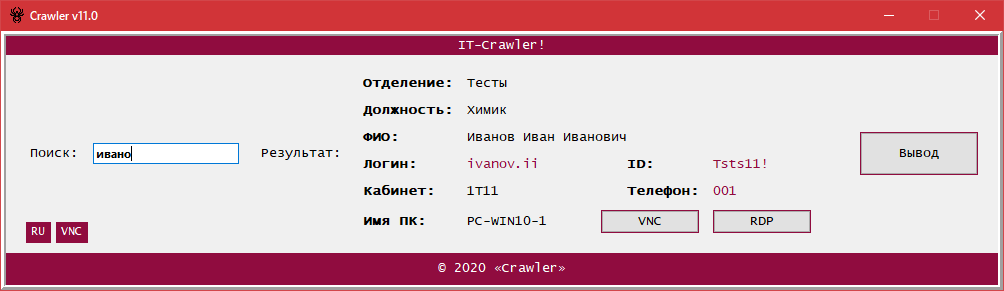
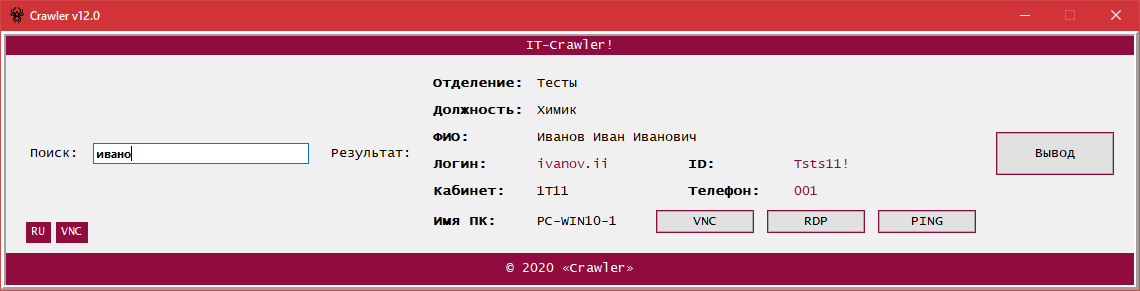
Функция пинга узлов. Кнопка изменения языка ввода.

diff --git a/main.py b/main.py
@@ -3,18 +3,19 @@ import xlrd
 import ctypes
 import fnmatch
 import pyperclip
+import pyautogui
 import subprocess
 from tkinter import *
 from tkinter import ttk
 from functools import partial
 
-VNC_PATH = './VNC'
-BD_PATH = './exampleData.xlsx'
-ICON_PATH = './spider.ico'
+VNC_PATH = 'VNC'
+BD_PATH = 'exampleData.xlsx'
+ICON_PATH = 'spider.ico'
 
 
 def press(event) -> None:
-    """Функция запускает поиск информации по нажатию клавиши."""
+    """Функция запускает поиск информации по нажатию клавиши Enter."""
 
     data_crawler(BD_PATH)
 
@@ -34,10 +35,12 @@ def click(event) -> None:
 def copy_to_clipboard(lbl) -> None:
     """Функция копирует текст из метки в буфер обмена."""
 
-    pyperclip.copy(lbl.cget('text'))
-    lbl_text = lbl.cget('text')
-    lbl['text'] = '<cкопировано>'
-    root.after(1000, label_animation, lbl, lbl_text)
+    output_labels = ('.!label18', '.!label14', '.!label20', '.!label16', '.!label12', '.!label10', '.!label8', '.!label6')
+    if str(lbl) in output_labels:
+        pyperclip.copy(lbl.cget('text'))
+        lbl_text = lbl.cget('text')
+        lbl['text'] = '<cкопировано>'
+        root.after(1000, label_animation, lbl, lbl_text)
 
 
 def label_animation(lbl_id, lbl_value: str) -> None:
@@ -60,7 +63,9 @@ def get_language() -> None:
 def change_language() -> None:
     """Функция меняет язык ввода текста."""
 
-    pass
+    pyautogui.keyDown('alt')
+    pyautogui.press('shift')
+    pyautogui.keyUp('alt')
 
 
 def open_vnc(path: str) -> None:
@@ -86,25 +91,32 @@ def open_rdp() -> None:
     subprocess.run(['mstsc.exe', f'/v:{target}'])
 
 
+def get_ping() -> None:
+    """Функция выполняет ping до выбранной рабочей станции."""
+
+    target = output_data_lbl64.cget('text')
+    os.system(f'cmd.exe /K "ping {target}"')
+
+
 def data_crawler(path: str) -> None:
     """Функция отрисовывает и заполняет данными окно с результатами поиска."""
     
     # Отрисовка окна с результатами поиска
     res_lbl.grid(row=1, column=2, rowspan=6, sticky=W, padx=(20, 5), pady=20)
     output_data_lbl13.grid(row=1, column=3, sticky=E, padx=5, pady=(20, 5))
-    output_data_lbl14.grid(row=1, column=4, sticky=W, padx=5, pady=(20, 5), columnspan=3)
+    output_data_lbl14.grid(row=1, column=4, sticky=W, padx=5, pady=(20, 5), columnspan=4)
     output_data_lbl23.grid(row=2, column=3, sticky=E, padx=5, pady=5)
-    output_data_lbl24.grid(row=2, column=4, sticky=W, padx=5, pady=5, columnspan=3)
+    output_data_lbl24.grid(row=2, column=4, sticky=W, padx=5, pady=5, columnspan=4)
     output_data_lbl33.grid(row=3, column=3, sticky=E, padx=5, pady=5)
-    output_data_lbl34.grid(row=3, column=4, sticky=W, padx=5, pady=5, columnspan=3)
+    output_data_lbl34.grid(row=3, column=4, sticky=W, padx=5, pady=5, columnspan=4)
     output_data_lbl43.grid(row=4, column=3, sticky=E, padx=5, pady=5)
     output_data_lbl44.grid(row=4, column=4, padx=5, pady=5)
-    output_data_lbl45.grid(row=4, column=5, sticky=E, padx=5, pady=5)
-    output_data_lbl46.grid(row=4, column=6, sticky=E, padx=5, pady=5)
+    output_data_lbl45.grid(row=4, column=5, sticky=W, padx=(30, 5), pady=5)
+    output_data_lbl46.grid(row=4, column=6, sticky=W, padx=(25, 5), pady=5, columnspan=2)
     output_data_lbl53.grid(row=5, column=3, sticky=E, padx=5, pady=5)
     output_data_lbl54.grid(row=5, column=4, sticky=E, padx=5, pady=5)
-    output_data_lbl55.grid(row=5, column=5, sticky=E, padx=5, pady=5)
-    output_data_lbl56.grid(row=5, column=6, sticky=E, padx=5, pady=5)
+    output_data_lbl55.grid(row=5, column=5, sticky=W, padx=(30, 5), pady=5)
+    output_data_lbl56.grid(row=5, column=6, sticky=W, padx=(25, 5), pady=5, columnspan=2)
     output_data_lbl63.grid(row=6, column=3, sticky=E, padx=5, pady=(5, 20))
     output_data_lbl64.grid(row=6, column=4, sticky=W, padx=5, pady=(5, 20))
 
@@ -132,7 +144,8 @@ def data_crawler(path: str) -> None:
         output_data_lbl64.grid_remove()
         vnc_but.grid_remove()
         rdp_but.grid_remove()
-        no_matches_lbl.grid(row=1, column=3, rowspan=6, columnspan=4, padx=10)
+        ping_but.grid_remove()
+        no_matches_lbl.grid(row=1, column=3, rowspan=6, columnspan=5, padx=10)
         no_matches_lbl.config(width=34, text='Не могу открыть файл базы данных!')
         return None
     sheet = excel_data_file.sheet_by_index(0)
@@ -172,8 +185,9 @@ def data_crawler(path: str) -> None:
             output_data_lbl56.config(text=response[7])
             output_data_lbl63.config(text='Имя ПК: ')
             output_data_lbl64.config(text=response[5])
-            vnc_but.grid(row=6, column=5, sticky=W, padx=7, pady=(5, 20))
-            rdp_but.grid(row=6, column=6, sticky=W, padx=7, pady=(5, 20))
+            vnc_but.grid(row=6, column=5, sticky=W, pady=(5, 20))
+            rdp_but.grid(row=6, column=6, sticky=W, pady=(5, 20))
+            ping_but.grid(row=6, column=7, sticky=W, padx=(13, 0), pady=(5, 20))
             no_matches_lbl.grid_remove()
         else:
             output_data_lbl13.grid_remove()
@@ -194,14 +208,15 @@ def data_crawler(path: str) -> None:
             output_data_lbl64.grid_remove()
             vnc_but.grid_remove()
             rdp_but.grid_remove()
+            ping_but.grid_remove()
             no_matches_lbl.grid(row=1, column=3, rowspan=6, padx=10)
             no_matches_lbl.config(text='Совпадений не найдено')
 
 
 # Инициализация главного окна
 root = Tk()
-root.geometry('+300+200')
-root.title('Crawler v11.0')
+root.geometry('+250+200')
+root.title('Crawler v12.0')
 root.resizable(False, False)
 root.iconbitmap(ICON_PATH)
 root.config(bd=5, relief=RIDGE)
@@ -214,9 +229,9 @@ button_style.configure('TButton', font=('Lucida Console', 10), background='#900C
 search_lbl = ttk.Label(text='Поиск: ', font=('Lucida Console', 10))
 search_lbl.grid(row=1, column=0, rowspan=6, sticky=E, padx=(20, 5), pady=20)
 header_lbl = Label(bg='#900C3F', fg='#FFFFFF', text='IT-Crawler!', font=('Lucida Console', 10))
-header_lbl.grid(row=0, columnspan=8, sticky=W + E)
+header_lbl.grid(row=0, columnspan=9, sticky=W + E)
 footer_lbl = Label(height=2, bg='#900C3F', fg='#FFFFFF', text='© 2020 «Crawler»', font=('Lucida Console', 10))
-footer_lbl.grid(row=8, columnspan=8, sticky=W + E)
+footer_lbl.grid(row=8, columnspan=9, sticky=W + E)
 
 res_lbl = ttk.Label(text='Результат: ', font=('Lucida Console', 10))
 output_data_lbl13 = ttk.Label(width=10, font=('Lucida Console', 10, 'bold'))
@@ -226,28 +241,29 @@ output_data_lbl24 = ttk.Label(font=('Lucida Console', 10), cursor='spider')
 output_data_lbl33 = ttk.Label(width=10, font=('Lucida Console', 10, 'bold'))
 output_data_lbl34 = ttk.Label(font=('Lucida Console', 10), cursor='spider')
 output_data_lbl43 = ttk.Label(width=10, font=('Lucida Console', 10, 'bold'))
-output_data_lbl44 = ttk.Label(width=15, font=('Lucida Console', 10), foreground='#900C3F', cursor='spider')
+output_data_lbl44 = ttk.Label(width=14, font=('Lucida Console', 10), foreground='#900C3F', cursor='spider')
 output_data_lbl45 = ttk.Label(width=8, font=('Lucida Console', 10, 'bold'))
 output_data_lbl46 = ttk.Label(width=15, font=('Lucida Console', 10), foreground='#900C3F', cursor='spider')
 output_data_lbl53 = ttk.Label(width=10, font=('Lucida Console', 10, 'bold'))
-output_data_lbl54 = ttk.Label(width=15, font=('Lucida Console', 10), cursor='spider')
+output_data_lbl54 = ttk.Label(width=14, font=('Lucida Console', 10), cursor='spider')
 output_data_lbl55 = ttk.Label(width=8, font=('Lucida Console', 10, 'bold'))
 output_data_lbl56 = ttk.Label(width=15, font=('Lucida Console', 10), foreground='#900C3F', cursor='spider')
 output_data_lbl63 = ttk.Label(width=10, font=('Lucida Console', 10, 'bold'))
-output_data_lbl64 = ttk.Label(font=('Lucida Console', 10), cursor='spider')
+output_data_lbl64 = ttk.Label(width=14, font=('Lucida Console', 10), cursor='spider')
 no_matches_lbl = ttk.Label(width=22, font=('Lucida Console', 10, 'bold'))
 
-input_data = ttk.Entry(width=20)
+input_data = ttk.Entry(width=30)
 input_data.grid(row=1, column=1, rowspan=6, sticky=W, pady=10)
 
 vnc_but = ttk.Button(text='VNC', command=partial(open_vnc, VNC_PATH), cursor='dotbox')
 rdp_but = ttk.Button(text='RDP', command=open_rdp, cursor='dotbox')
+ping_but = ttk.Button(text='PING', command=get_ping, cursor='dotbox')
 language_but = Button(text='RU', font=('Lucida Console', 9), bg='#900C3F', fg='#FFFFFF', relief='flat',command=change_language)
 language_but.grid(row=2, column=0, rowspan=5, sticky=SW, padx=(20, 5), pady=(0, 10))
 VNC_folder_but = Button(text='VNC', font=('Lucida Console', 9), bg='#900C3F', fg='#FFFFFF', relief='flat',command=open_vnc_folder)
 VNC_folder_but.grid(row=2, column=0, rowspan=5, sticky=SW, padx=(50, 5), pady=(0, 10))
 show_but = ttk.Button(text='Вывод', command=partial(data_crawler, BD_PATH))
-show_but.grid(row=1, column=7, rowspan=6, ipady=10, ipadx=10, pady=60, padx=20)
+show_but.grid(row=1, column=8, rowspan=6, ipady=10, ipadx=10, pady=60, padx=20)
 
 # Обработка событий нажатия клавиш
 output_data_lbl13.bind('<Button-1>', click)
